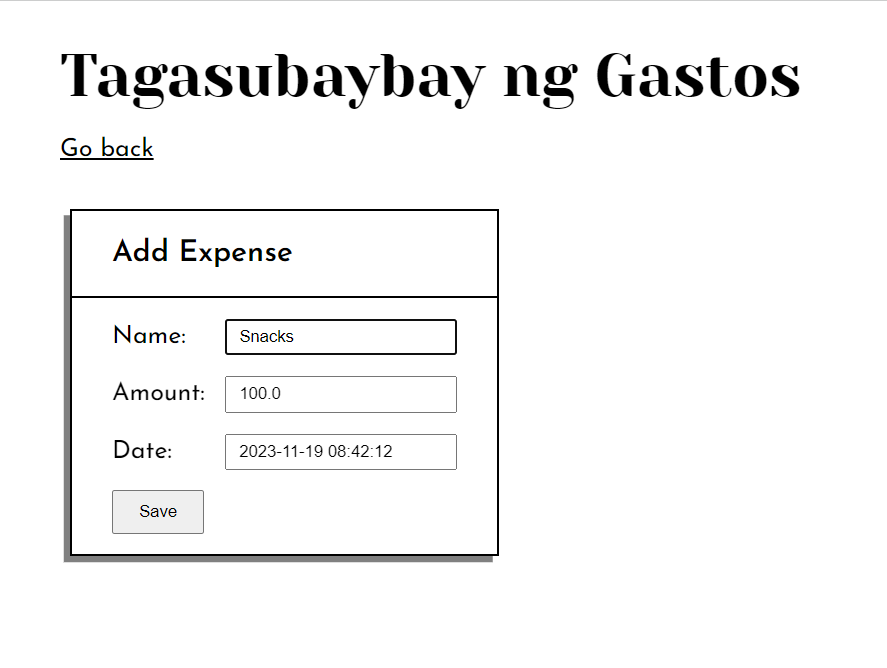
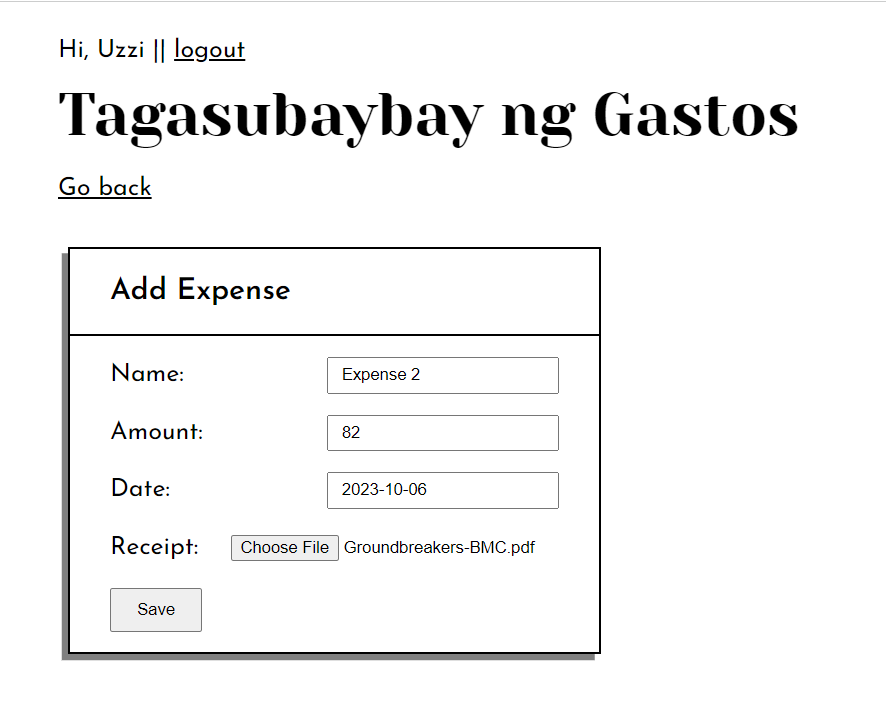
Added user authentication and creation, and file uploading

diff --git a/expense_tracker/templates/expense_tracker/home.html b/expense_tracker/templates/expense_tracker/home.html
@@ -10,15 +10,20 @@
         <th>Amount</th>
         <th>Actions</th>
     </tr>
-{% for expense in expenses  %}
-    <tr>
-        <td>{{ expense.name }}</td>
-        <td>{{ expense.amount }}</td>
-        <td>
-            <a id='edit' href='{% url 'expense-edit' expense.id %}'><button name='edit'>Edit</button></a>
-            <a id='delete' href='{% url 'expense-delete' expense.id %}'><button name='delete'>Delete</button></a>
-    </tr>
-{% endfor %}
+{% if expenses %}
+    {% for expense in expenses  %}
+        <tr>
+            <td>{{ expense.name }}</td>
+            <td>{{ expense.amount }}</td>
+            <td>
+                <a id='edit' href='{% url 'expense-edit' expense.expense %}'><button name='edit'>Edit</button></a>
+                <a id='delete' href='{% url 'expense-delete' expense.expense %}'><button name='delete'>Delete</button></a>
+        </tr>
+    {% endfor %}
+        <tr id='row_total'>
+            <td>Total:</td>
+            <td>{% if total %}{{ total }}{% else %}0{% endif %}</td>
+{% endif %}
 </table>
 </div>
 {% endblock content %}

diff --git a/users/templates/users/register.html b/users/templates/users/register.html
@@ -1,0 +1,26 @@
+{% extends "base.html" %}
+
+{% block content %}
+<div class='container'>
+    <div class='container__title'><h2>Sign Up</h2></div>
+    <form method="POST" novalidate>
+        {% csrf_token %}
+
+        {% for field in form  %}
+        <p>
+            {% if fields.errors %}
+                <ul class='errorslist'>
+                    {% for errors in fields.errors %}
+                    <li>{{ error }}</li>
+                    {% endfor %}
+                </ul>
+            {% endif %}
+            {{ field.label_tag }} {{ field }}
+        </p>
+        {% endfor %}
+
+        {% comment %} {{ form.as_p }} {% endcomment %}
+        <input type="submit" value="Register" />
+    </form>
+</div>
+{% endblock content %}

diff --git a/expense_tracker/templates/expense_tracker/expense_form.html b/expense_tracker/templates/expense_tracker/expense_form.html
@@ -2,9 +2,9 @@
 
 {% block content %}
 <a id='back' href={% url "home" %}>Go back</a>
-<div class='container' style="overflow-x:auto;">
+<div class='container'>
 <div class='container__title'><h2>{% if id %} Edit {% else %} Add {% endif %} Expense</h2></div>
-<form method="POST" novalidate>
+<form method="POST" enctype='multipart/form-data'>
 	{% csrf_token %}
 	{{ form.as_p }}
 	<input type="submit" value="Save" />

diff --git a/static/css/style.css b/static/css/style.css
@@ -30,6 +30,7 @@ h2 {
     width: fit-content;
     border: 2px solid black;
     margin-left: .5rem;
+    margin-bottom: 1rem;
     box-shadow: -5px 5px gray;
     overflow: hidden;
 }
@@ -106,4 +107,9 @@ button[type='submit'], button[type='button'] {
 
 .errorlist {
     color: lightcoral;
+}
+
+#row_total {
+    /* margin-top: 2rem; */
+    border-top: 2px solid black;
 }

diff --git a/users/templates/users/login.html b/users/templates/users/login.html
@@ -9,4 +9,5 @@
         <input type="submit" value="Login" />
     </form>
 </div>
+<p>Don't have an account? <a href='{% url "register" %}'>Register Here</a></p>
 {% endblock content %}

diff --git a/expense_tracker/views.py b/expense_tracker/views.py
@@ -1,30 +1,49 @@
 from django.shortcuts import render, redirect, get_object_or_404
+from django.views.generic.list import ListView
 from django.contrib import messages
 from django.contrib.auth.decorators import login_required
+from django.db.models import Sum
 from .models import Expense
 from .forms import ExpenseForm
+
+
+# class ExpenseList(ListView):
+#     model = Expense.objects.filter(self.request)
+#     context_object_name = 'expenses'
+#     template_name='expense_tracker/home.html'
 
 # Create your views here.
 @login_required
 def home(request):
-    expenses = Expense.objects.all()
-    context = {'expenses': expenses}
+    context = {}
+    expenses = Expense.objects.filter(owner=request.user)
+    
+    if expenses.exists():
+        context['expenses'] = expenses
+        total = f"{(expenses.aggregate(Sum('amount'))['amount__sum']):.2f}"
+        context['total'] = total
+        
     return render(request, 'expense_tracker/home.html', context)
 
 
 @login_required
 def add_expense(request):
     context = {}
+    
     if request.method == 'GET':
         context['form'] = ExpenseForm()
         return render(request, 'expense_tracker/expense_form.html', context)
     
     elif request.method == 'POST':
-        form = ExpenseForm(request.POST)
+        form = ExpenseForm(request.POST, request.FILES)
+        
         if form.is_valid():
-            form.save()
+            expense = form.save(commit=False)
+            expense.owner = request.user
+            expense.save()
             messages.success(request, 'Expense has been added!')
             return redirect('home')
+        
         else:
             context['form'] = form
             messages.error(request, 'Please correct the following errors: ')
@@ -32,18 +51,18 @@ def add_expense(request):
   
         
 @login_required   
-def edit_expense(request, id):
+def edit_expense(request, expense):
     context = {}
-    expense = get_object_or_404(Expense, id=id)
+    expense = get_object_or_404(Expense, expense=expense)
     
     if request.method == 'GET':
         context['form'] = ExpenseForm(instance=expense)
-        context['id'] = id
+        context['id'] = expense
         
         return render(request, 'expense_tracker/expense_form.html', context)
     
     elif request.method == 'POST':
-        form = ExpenseForm(request.POST, instance=expense)
+        form = ExpenseForm(request.POST, request.FILES, instance=expense)
         
         if form.is_valid():
             form.save()
@@ -57,9 +76,9 @@ def edit_expense(request, id):
     
   
 @login_required  
-def delete_expense(request, id):
+def delete_expense(request, expense):
     context = {}
-    expense = get_object_or_404(Expense, pk=id)
+    expense = get_object_or_404(Expense, pk=expense)
     context['expense'] = expense
     
     if request.method == 'GET':        

diff --git a/expense_tracker/migrations/0001_initial.py b/expense_tracker/migrations/0001_initial.py
@@ -1,6 +1,8 @@
-# Generated by Django 4.2.7 on 2023-11-15 15:11
+# Generated by Django 4.2.7 on 2023-11-20 23:40
 
+from django.conf import settings
 from django.db import migrations, models
+import django.db.models.deletion
 import django.utils.timezone
 
 
@@ -9,16 +11,18 @@ class Migration(migrations.Migration):
     initial = True
 
     dependencies = [
+        migrations.swappable_dependency(settings.AUTH_USER_MODEL),
     ]
 
     operations = [
         migrations.CreateModel(
             name='Expense',
             fields=[
-                ('id', models.BigAutoField(auto_created=True, primary_key=True, serialize=False, verbose_name='ID')),
-                ('amount', models.DecimalField(decimal_places=2, default=0, max_digits=10)),
-                ('content', models.CharField(max_length=100)),
+                ('expense', models.BigAutoField(primary_key=True, serialize=False)),
+                ('name', models.CharField(max_length=100)),
+                ('amount', models.DecimalField(decimal_places=2, default=100.0, max_digits=10)),
                 ('date', models.DateTimeField(default=django.utils.timezone.now)),
+                ('owner', models.ForeignKey(on_delete=django.db.models.deletion.CASCADE, to=settings.AUTH_USER_MODEL)),
             ],
         ),
     ]

diff --git a/users/views.py b/users/views.py
@@ -1,7 +1,7 @@
 from django.shortcuts import render, redirect
 from django.contrib import messages
 from django.contrib.auth import login, authenticate, logout
-from .forms import LoginForm
+from .forms import LoginForm, RegisterForm
 
 # Create your views here.
 def sign_in(request):
@@ -34,3 +34,28 @@ def sign_out(request):
     logout(request)
     messages.success(request, f'You have been logged out.')
     return redirect('login')
+
+
+def sign_up(request):
+    context = {}
+    
+    if request.method == 'GET':
+        form = RegisterForm()
+        context['form'] = form
+        return render(request, 'users/register.html', context)
+
+    if request.method == 'POST':
+        form = RegisterForm(request.POST)
+        
+        if form.is_valid():
+            user = form.save(commit=False)
+            user.username = user.username.lower()
+            user.save()
+            messages.success(request, 'You have signed up successfully.')
+            login(request, user)
+            return redirect('home')
+        
+        else:
+            form = RegisterForm()
+            context['form'] = form
+            return render(request, 'users/register.html', context)

diff --git a/expense_tracker/models.py b/expense_tracker/models.py
@@ -1,8 +1,15 @@
 from django.db import models
 from django.utils import timezone
+from django.contrib.auth.models import User
+
+
+def user_directory_path(instance, filename): 
+    return f'uploads/{instance.owner.id}/{filename}'
+      
 
 # Create your models here.
 class Expense(models.Model):
+    expense = models.BigAutoField(primary_key=True)
     name = models.CharField(max_length=100, blank=False)
     amount = models.DecimalField(
         blank=False,
@@ -10,8 +17,10 @@ class Expense(models.Model):
         decimal_places=2,
         max_digits=10,
     )
-    date = models.DateTimeField(default=timezone.now, blank=False)
-    
+    date = models.DateTimeField(default=timezone.now, blank=True)
+    owner = models.ForeignKey(User, on_delete=models.CASCADE)
+    receipt = models.FileField(upload_to=user_directory_path, blank=True)
+
     def __str__(self):
-        return str(self.amount)
+        return f'{self.name} - {str(self.amount)}'
     

diff --git a/expense_tracker/urls.py b/expense_tracker/urls.py
@@ -2,8 +2,9 @@ from django.urls import path
 from . import views
 
 urlpatterns = [
+    # path('', views.ExpenseList.as_view(), name='home'),
     path('', views.home, name='home'),
     path('expense/add/', views.add_expense, name='expense-add'),
-    path('expense/edit/<int:id>/', views.edit_expense, name='expense-edit'),
-    path('expense/delete/<int:id>/', views.delete_expense, name='expense-delete'),
+    path('expense/edit/<int:expense>/', views.edit_expense, name='expense-edit'),
+    path('expense/delete/<int:expense>/', views.delete_expense, name='expense-delete'),
 ]

diff --git a/expense_tracker/migrations/0002_expense_receipt.py b/expense_tracker/migrations/0002_expense_receipt.py
@@ -1,0 +1,19 @@
+# Generated by Django 4.2.7 on 2023-11-22 07:27
+
+from django.db import migrations, models
+import expense_tracker.models
+
+
+class Migration(migrations.Migration):
+
+    dependencies = [
+        ('expense_tracker', '0001_initial'),
+    ]
+
+    operations = [
+        migrations.AddField(
+            model_name='expense',
+            name='receipt',
+            field=models.FileField(null=True, upload_to=expense_tracker.models.user_directory_path),
+        ),
+    ]

diff --git a/users/forms.py b/users/forms.py
@@ -1,7 +1,14 @@
 from django import forms
+from django.contrib.auth.models import User
+from django.contrib.auth.forms import UserCreationForm
 
 
 class LoginForm(forms.Form):
     username = forms.CharField(max_length=65)
     password = forms.CharField(max_length=65, widget=forms.PasswordInput)
     
+    
+class RegisterForm(UserCreationForm):
+    class Meta:
+        model = User
+        fields = ['username', 'email', 'password1', 'password2']
